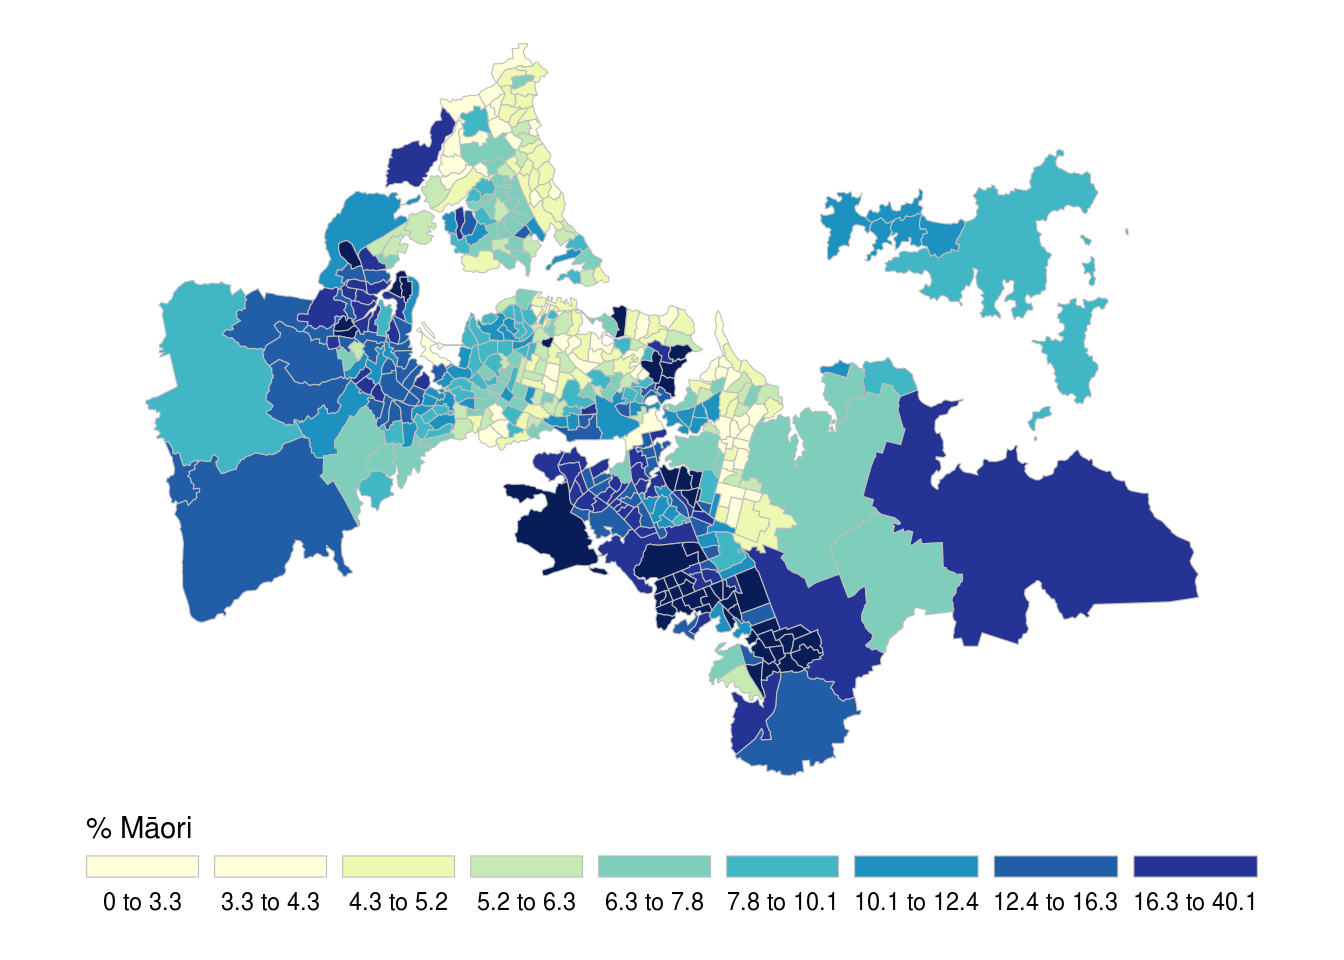
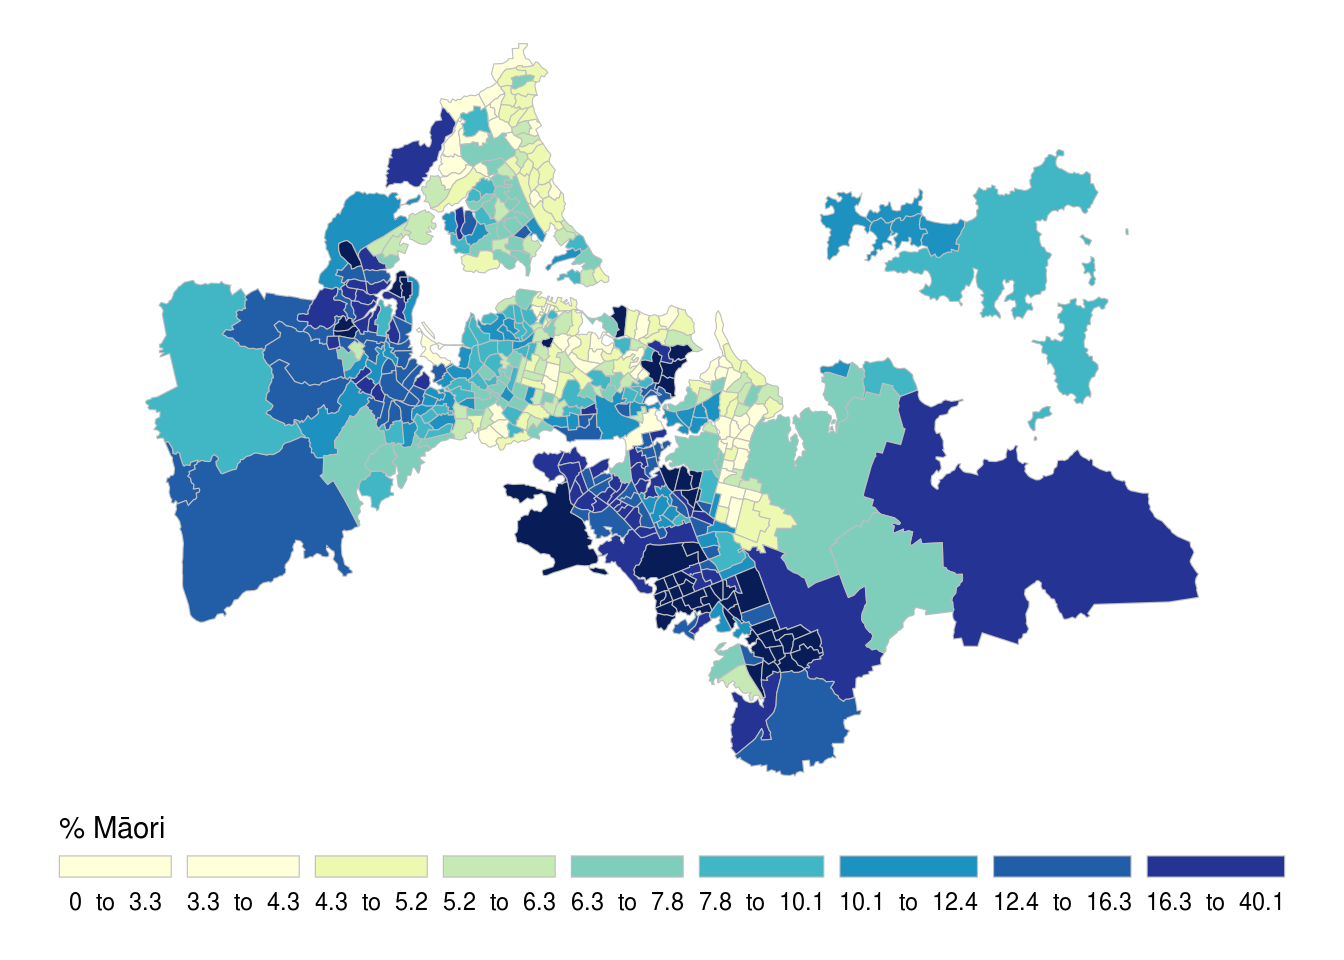
added some explanation to choropleth

Changed region(s): [[0.0312, 0.8438, 0.6875, 0.9688], [0.7812, 0.875, 0.9688, 0.9688]]

diff --git a/docs/maps/13-choropleth.html b/docs/maps/13-choropleth.html
@@ -191,60 +191,77 @@ pre > code.sourceCode > span > a:first-child::before { text-decoration: underlin
   tm_polygons(col = "maori", n = 9, palette = "YlGnBu", 
               style = "quantile", title = "% Māori")</code></pre>
 <p>It is nice to have the additional control that the separate specification of the <code>.scale</code> and <code>.legend</code> parameters provide, but the downside is a lot of additional typing. On the other, hand, if you like typing, take a look at what’s involved in making a similar map using <code>ggplot2</code>.</p>
-<div class="cell" data-hash="13-choropleth_cache/html/unnamed-chunk-3_e8011a88ff7a9c06566a1d439abf2720">
+<p>Some of the additional difficulty here is choosing to use a ‘non-standard’, legend, but this still seems like quite a lot of code.</p>
+<div class="cell" data-hash="13-choropleth_cache/html/unnamed-chunk-3_7825f15ddf103389c841ba577f03ff56">
 <div class="sourceCode cell-code" id="cb4"><pre class="sourceCode r code-with-copy"><code class="sourceCode r"><span id="cb4-1"><a href="#cb4-1" aria-hidden="true" tabindex="-1"></a><span class="fu">tm_shape</span>(ak) <span class="sc">+</span> </span>
 <span id="cb4-2"><a href="#cb4-2" aria-hidden="true" tabindex="-1"></a>  <span class="fu">tm_polygons</span>(</span>
 <span id="cb4-3"><a href="#cb4-3" aria-hidden="true" tabindex="-1"></a>    <span class="at">fill =</span> <span class="st">"maori"</span>,</span>
 <span id="cb4-4"><a href="#cb4-4" aria-hidden="true" tabindex="-1"></a>    <span class="at">fill.scale =</span> <span class="fu">tm_scale_intervals</span>(</span>
-<span id="cb4-5"><a href="#cb4-5" aria-hidden="true" tabindex="-1"></a>      <span class="at">n =</span> <span class="dv">9</span>, <span class="at">values =</span> <span class="st">"YlGnBu"</span>, </span>
-<span id="cb4-6"><a href="#cb4-6" aria-hidden="true" tabindex="-1"></a>      <span class="at">style =</span> <span class="st">"quantile"</span>),</span>
-<span id="cb4-7"><a href="#cb4-7" aria-hidden="true" tabindex="-1"></a>    <span class="at">fill.legend =</span> <span class="fu">tm_legend</span>(</span>
-<span id="cb4-8"><a href="#cb4-8" aria-hidden="true" tabindex="-1"></a>      <span class="at">orientation =</span> <span class="st">"landscape"</span>,</span>
-<span id="cb4-9"><a href="#cb4-9" aria-hidden="true" tabindex="-1"></a>      <span class="at">title =</span> <span class="st">"% Māori"</span>),</span>
-<span id="cb4-10"><a href="#cb4-10" aria-hidden="true" tabindex="-1"></a>    <span class="at">col =</span> <span class="st">"grey"</span>,</span>
-<span id="cb4-11"><a href="#cb4-11" aria-hidden="true" tabindex="-1"></a>    <span class="at">lwd =</span> <span class="fl">0.35</span></span>
-<span id="cb4-12"><a href="#cb4-12" aria-hidden="true" tabindex="-1"></a>  ) <span class="sc">+</span></span>
-<span id="cb4-13"><a href="#cb4-13" aria-hidden="true" tabindex="-1"></a>  <span class="fu">tm_layout</span>(</span>
-<span id="cb4-14"><a href="#cb4-14" aria-hidden="true" tabindex="-1"></a>    <span class="at">frame =</span> <span class="cn">FALSE</span>, <span class="at">legend.outside =</span> <span class="cn">TRUE</span>,</span>
-<span id="cb4-15"><a href="#cb4-15" aria-hidden="true" tabindex="-1"></a>    <span class="at">legend.outside.position =</span> <span class="st">"bottom"</span>,</span>
-<span id="cb4-16"><a href="#cb4-16" aria-hidden="true" tabindex="-1"></a>    <span class="at">legend.frame =</span> <span class="cn">FALSE</span>)</span></code><button title="Copy to Clipboard" class="code-copy-button"><i class="bi"></i></button></pre></div>
+<span id="cb4-5"><a href="#cb4-5" aria-hidden="true" tabindex="-1"></a>      <span class="at">n =</span> <span class="dv">9</span>, <span class="at">values =</span> <span class="st">"YlGnBu"</span>, <span class="at">style =</span> <span class="st">"quantile"</span>),</span>
+<span id="cb4-6"><a href="#cb4-6" aria-hidden="true" tabindex="-1"></a>    <span class="at">fill.legend =</span> <span class="fu">tm_legend</span>(</span>
+<span id="cb4-7"><a href="#cb4-7" aria-hidden="true" tabindex="-1"></a>      <span class="at">orientation =</span> <span class="st">"landscape"</span>, <span class="at">title =</span> <span class="st">"% Māori"</span>),</span>
+<span id="cb4-8"><a href="#cb4-8" aria-hidden="true" tabindex="-1"></a>    <span class="at">col =</span> <span class="st">"grey"</span>,</span>
+<span id="cb4-9"><a href="#cb4-9" aria-hidden="true" tabindex="-1"></a>    <span class="at">lwd =</span> <span class="fl">0.35</span></span>
+<span id="cb4-10"><a href="#cb4-10" aria-hidden="true" tabindex="-1"></a>  ) <span class="sc">+</span></span>
+<span id="cb4-11"><a href="#cb4-11" aria-hidden="true" tabindex="-1"></a>  <span class="fu">tm_layout</span>(</span>
+<span id="cb4-12"><a href="#cb4-12" aria-hidden="true" tabindex="-1"></a>    <span class="at">frame =</span> <span class="cn">FALSE</span>, <span class="at">legend.outside =</span> <span class="cn">TRUE</span>,</span>
+<span id="cb4-13"><a href="#cb4-13" aria-hidden="true" tabindex="-1"></a>    <span class="at">legend.outside.position =</span> <span class="st">"bottom"</span>,</span>
+<span id="cb4-14"><a href="#cb4-14" aria-hidden="true" tabindex="-1"></a>    <span class="at">legend.frame =</span> <span class="cn">FALSE</span>)</span></code><button title="Copy to Clipboard" class="code-copy-button"><i class="bi"></i></button></pre></div>
 <div class="cell-output-display">
 <p><img src="13-choropleth_files/figure-html/unnamed-chunk-3-1.png" class="img-fluid" width="672"></p>
 </div>
 </div>
+<p>Version 3.x <code>tmap</code> would accomplish the same map (setting to one side the custome legend) with</p>
+<pre><code>tm_shape(ak) +
+  tm_polygons(col = "maori", n = 9, palette = "YlGnBu", style = "quantile"
+              border.col = "grey", lwd = 0.35)</code></pre>
+<p>I should note that at least for now this v3 code will be internally transformed to v4 code, and hence still directly useable.</p>
+<p>The ‘embedded functions’ approach such as <code>tm_scale_intervals</code> seems like extra work. The change from <code>palette</code> to <code>values</code> is consistent with the <em>visual variables</em> concept, but I think you have to admit that it is likely to be less obvious to a beginner.</p>
 </section>
 <section id="ggplot2" class="level2">
 <h2 class="anchored" data-anchor-id="ggplot2"><code>ggplot2</code></h2>
-<p>Here we have to do all the classification work and use the <code>scale_fill_fermenter()</code> function to get the same effect. We can use <code>classInt::classIntervals()</code> to do this. Even then we have to make up the legend labels manually. An added challenge caused by placing the legend below the map area is that we have to extend the plot area to accommodate it, using <code>coord_sf(...ylim=...)</code>.</p>
-<div class="cell" data-hash="13-choropleth_cache/html/unnamed-chunk-4_d152c2e3b38f111d79bca6b7c92f3b86">
-<div class="sourceCode cell-code" id="cb5"><pre class="sourceCode r code-with-copy"><code class="sourceCode r"><span id="cb5-1"><a href="#cb5-1" aria-hidden="true" tabindex="-1"></a><span class="fu">library</span>(classInt)</span>
-<span id="cb5-2"><a href="#cb5-2" aria-hidden="true" tabindex="-1"></a></span>
-<span id="cb5-3"><a href="#cb5-3" aria-hidden="true" tabindex="-1"></a>intervals <span class="ot">&lt;-</span> <span class="fu">classIntervals</span>(ak<span class="sc">$</span>maori, <span class="dv">9</span>, <span class="st">"quantile"</span>, <span class="at">digits =</span> <span class="dv">1</span>)</span>
-<span id="cb5-4"><a href="#cb5-4" aria-hidden="true" tabindex="-1"></a>brks <span class="ot">&lt;-</span> <span class="fu">round</span>(intervals<span class="sc">$</span>brks, <span class="dv">1</span>)</span>
-<span id="cb5-5"><a href="#cb5-5" aria-hidden="true" tabindex="-1"></a>lbls <span class="ot">=</span> <span class="fu">paste0</span>(brks[<span class="sc">-</span><span class="dv">10</span>], <span class="fu">rep</span>(<span class="st">" to "</span>, <span class="dv">9</span>), brks[<span class="sc">-</span><span class="dv">1</span>])</span>
-<span id="cb5-6"><a href="#cb5-6" aria-hidden="true" tabindex="-1"></a>bb <span class="ot">&lt;-</span> <span class="fu">st_bbox</span>(ak)</span>
-<span id="cb5-7"><a href="#cb5-7" aria-hidden="true" tabindex="-1"></a></span>
-<span id="cb5-8"><a href="#cb5-8" aria-hidden="true" tabindex="-1"></a><span class="fu">ggplot</span>(ak) <span class="sc">+</span> </span>
-<span id="cb5-9"><a href="#cb5-9" aria-hidden="true" tabindex="-1"></a>  <span class="fu">geom_sf</span>(<span class="fu">aes</span>(<span class="at">fill =</span> maori), <span class="at">colour =</span> <span class="st">"grey"</span>, <span class="at">linewidth =</span> <span class="fl">0.2</span>) <span class="sc">+</span></span>
-<span id="cb5-10"><a href="#cb5-10" aria-hidden="true" tabindex="-1"></a>  <span class="fu">scale_fill_fermenter</span>(</span>
-<span id="cb5-11"><a href="#cb5-11" aria-hidden="true" tabindex="-1"></a>    <span class="at">palette =</span> <span class="st">"YlGnBu"</span>,</span>
-<span id="cb5-12"><a href="#cb5-12" aria-hidden="true" tabindex="-1"></a>    <span class="at">direction =</span> <span class="dv">1</span>,</span>
-<span id="cb5-13"><a href="#cb5-13" aria-hidden="true" tabindex="-1"></a>    <span class="at">breaks =</span> brks[<span class="sc">-</span><span class="dv">10</span>],</span>
-<span id="cb5-14"><a href="#cb5-14" aria-hidden="true" tabindex="-1"></a>    <span class="at">labels =</span> lbls,</span>
-<span id="cb5-15"><a href="#cb5-15" aria-hidden="true" tabindex="-1"></a>    <span class="at">name =</span> <span class="st">"% Māori"</span>,</span>
-<span id="cb5-16"><a href="#cb5-16" aria-hidden="true" tabindex="-1"></a>    <span class="at">guide =</span> <span class="fu">guide_legend</span>(</span>
-<span id="cb5-17"><a href="#cb5-17" aria-hidden="true" tabindex="-1"></a>      <span class="at">keywidth =</span> <span class="fu">unit</span>(<span class="dv">15</span>, <span class="at">units =</span> <span class="st">"mm"</span>),</span>
-<span id="cb5-18"><a href="#cb5-18" aria-hidden="true" tabindex="-1"></a>      <span class="at">keyheight =</span> <span class="fu">unit</span>(<span class="dv">3</span>, <span class="at">units =</span> <span class="st">"mm"</span>),</span>
-<span id="cb5-19"><a href="#cb5-19" aria-hidden="true" tabindex="-1"></a>      <span class="at">label.position =</span> <span class="st">"bottom"</span>,</span>
-<span id="cb5-20"><a href="#cb5-20" aria-hidden="true" tabindex="-1"></a>      <span class="at">title.position =</span> <span class="st">"top"</span>,</span>
-<span id="cb5-21"><a href="#cb5-21" aria-hidden="true" tabindex="-1"></a>      <span class="at">nrow =</span> <span class="dv">1</span>)) <span class="sc">+</span></span>
-<span id="cb5-22"><a href="#cb5-22" aria-hidden="true" tabindex="-1"></a>  <span class="fu">coord_sf</span>(<span class="at">ylim =</span> <span class="fu">c</span>(bb[<span class="dv">2</span>] <span class="sc">-</span> <span class="dv">10000</span>, bb[<span class="dv">4</span>]), <span class="at">clip =</span> <span class="st">"off"</span>) <span class="sc">+</span></span>
-<span id="cb5-23"><a href="#cb5-23" aria-hidden="true" tabindex="-1"></a>  <span class="fu">theme_void</span>() <span class="sc">+</span></span>
-<span id="cb5-24"><a href="#cb5-24" aria-hidden="true" tabindex="-1"></a>  <span class="fu">theme</span>(<span class="at">legend.position =</span> <span class="fu">c</span>(<span class="fl">0.5</span>, <span class="fl">0.1</span>))</span></code><button title="Copy to Clipboard" class="code-copy-button"><i class="bi"></i></button></pre></div>
+<p>Here, we have to do all the classification work and use the <code>scale_fill_fermenter()</code> and function to get the same effect. We use <code>classInt::classIntervals()</code> to make breaks. Even then we have to make up the legend labels manually if we want to show ranges, not just the break values. Much as I uh… appreciate the quirkiness of <em>R</em>’s <code>paste()</code> function, I don’t relish explaining this to an introductory class!</p>
+<p>An additional challenge caused by placing the legend below the map area is that we have to extend the plot area to accommodate it, using <code>coord_sf(...ylim=...)</code>, but that’s a distraction it is the generation of breaks, and legend labels that is the real annoyance (at least to me).</p>
+<div class="cell" data-hash="13-choropleth_cache/html/unnamed-chunk-4_91ddd3f91bd67161d317eb618834fc90">
+<div class="sourceCode cell-code" id="cb6"><pre class="sourceCode r code-with-copy"><code class="sourceCode r"><span id="cb6-1"><a href="#cb6-1" aria-hidden="true" tabindex="-1"></a><span class="fu">library</span>(classInt)</span>
+<span id="cb6-2"><a href="#cb6-2" aria-hidden="true" tabindex="-1"></a></span>
+<span id="cb6-3"><a href="#cb6-3" aria-hidden="true" tabindex="-1"></a>class_breaks <span class="ot">&lt;-</span> <span class="fu">classIntervals</span>(ak<span class="sc">$</span>maori, <span class="dv">9</span>, <span class="st">"quantile"</span>, <span class="at">digits =</span> <span class="dv">1</span>)</span>
+<span id="cb6-4"><a href="#cb6-4" aria-hidden="true" tabindex="-1"></a>brks <span class="ot">&lt;-</span> <span class="fu">round</span>(class_breaks<span class="sc">$</span>brks, <span class="dv">1</span>)</span>
+<span id="cb6-5"><a href="#cb6-5" aria-hidden="true" tabindex="-1"></a>intervals <span class="ot">=</span> <span class="fu">paste</span>(brks[<span class="sc">-</span><span class="dv">10</span>], <span class="fu">rep</span>(<span class="st">" to "</span>, <span class="dv">9</span>), brks[<span class="sc">-</span><span class="dv">1</span>])</span>
+<span id="cb6-6"><a href="#cb6-6" aria-hidden="true" tabindex="-1"></a>bb <span class="ot">&lt;-</span> <span class="fu">st_bbox</span>(ak)</span>
+<span id="cb6-7"><a href="#cb6-7" aria-hidden="true" tabindex="-1"></a></span>
+<span id="cb6-8"><a href="#cb6-8" aria-hidden="true" tabindex="-1"></a><span class="fu">ggplot</span>(ak) <span class="sc">+</span> </span>
+<span id="cb6-9"><a href="#cb6-9" aria-hidden="true" tabindex="-1"></a>  <span class="fu">geom_sf</span>(<span class="fu">aes</span>(<span class="at">fill =</span> maori), <span class="at">colour =</span> <span class="st">"grey"</span>, <span class="at">linewidth =</span> <span class="fl">0.2</span>) <span class="sc">+</span></span>
+<span id="cb6-10"><a href="#cb6-10" aria-hidden="true" tabindex="-1"></a>  <span class="fu">scale_fill_fermenter</span>(</span>
+<span id="cb6-11"><a href="#cb6-11" aria-hidden="true" tabindex="-1"></a>    <span class="at">palette =</span> <span class="st">"YlGnBu"</span>,</span>
+<span id="cb6-12"><a href="#cb6-12" aria-hidden="true" tabindex="-1"></a>    <span class="at">direction =</span> <span class="dv">1</span>,</span>
+<span id="cb6-13"><a href="#cb6-13" aria-hidden="true" tabindex="-1"></a>    <span class="at">breaks =</span> brks[<span class="sc">-</span><span class="dv">10</span>],</span>
+<span id="cb6-14"><a href="#cb6-14" aria-hidden="true" tabindex="-1"></a>    <span class="at">labels =</span> intervals,</span>
+<span id="cb6-15"><a href="#cb6-15" aria-hidden="true" tabindex="-1"></a>    <span class="at">name =</span> <span class="st">"% Māori"</span>,</span>
+<span id="cb6-16"><a href="#cb6-16" aria-hidden="true" tabindex="-1"></a>    <span class="at">guide =</span> <span class="fu">guide_legend</span>(</span>
+<span id="cb6-17"><a href="#cb6-17" aria-hidden="true" tabindex="-1"></a>      <span class="at">keywidth =</span> <span class="fu">unit</span>(<span class="dv">15</span>, <span class="at">units =</span> <span class="st">"mm"</span>),</span>
+<span id="cb6-18"><a href="#cb6-18" aria-hidden="true" tabindex="-1"></a>      <span class="at">keyheight =</span> <span class="fu">unit</span>(<span class="dv">3</span>, <span class="at">units =</span> <span class="st">"mm"</span>),</span>
+<span id="cb6-19"><a href="#cb6-19" aria-hidden="true" tabindex="-1"></a>      <span class="at">label.position =</span> <span class="st">"bottom"</span>,</span>
+<span id="cb6-20"><a href="#cb6-20" aria-hidden="true" tabindex="-1"></a>      <span class="at">title.position =</span> <span class="st">"top"</span>,</span>
+<span id="cb6-21"><a href="#cb6-21" aria-hidden="true" tabindex="-1"></a>      <span class="at">nrow =</span> <span class="dv">1</span>)) <span class="sc">+</span></span>
+<span id="cb6-22"><a href="#cb6-22" aria-hidden="true" tabindex="-1"></a>  <span class="fu">coord_sf</span>(<span class="at">ylim =</span> <span class="fu">c</span>(bb[<span class="dv">2</span>] <span class="sc">-</span> <span class="dv">10000</span>, bb[<span class="dv">4</span>]), <span class="at">clip =</span> <span class="st">"off"</span>) <span class="sc">+</span></span>
+<span id="cb6-23"><a href="#cb6-23" aria-hidden="true" tabindex="-1"></a>  <span class="fu">theme_void</span>() <span class="sc">+</span></span>
+<span id="cb6-24"><a href="#cb6-24" aria-hidden="true" tabindex="-1"></a>  <span class="fu">theme</span>(<span class="at">legend.position =</span> <span class="fu">c</span>(<span class="fl">0.5</span>, <span class="fl">0.1</span>))</span></code><button title="Copy to Clipboard" class="code-copy-button"><i class="bi"></i></button></pre></div>
 <div class="cell-output-display">
 <p><img src="13-choropleth_files/figure-html/unnamed-chunk-4-1.png" class="img-fluid" width="672"></p>
 </div>
 </div>
+<p>The underlying issue here is that <code>ggplot2</code> really doesn’t want to make classed choropleths. The data are ‘continuous’ valued and <code>ggplot2</code>’s strong preference is to associate a continuous variable with a continuos visual variable. You can see this if you let it do its own thing:</p>
+<div class="cell" data-hash="13-choropleth_cache/html/unnamed-chunk-5_43cfad263fa8db32d0cdc817670b893a">
+<div class="sourceCode cell-code" id="cb7"><pre class="sourceCode r code-with-copy"><code class="sourceCode r"><span id="cb7-1"><a href="#cb7-1" aria-hidden="true" tabindex="-1"></a><span class="fu">ggplot</span>(ak) <span class="sc">+</span> </span>
+<span id="cb7-2"><a href="#cb7-2" aria-hidden="true" tabindex="-1"></a>  <span class="fu">geom_sf</span>(<span class="fu">aes</span>(<span class="at">fill =</span> maori), <span class="at">colour =</span> <span class="st">"grey"</span>, <span class="at">linewidth =</span> <span class="fl">0.2</span>) <span class="sc">+</span></span>
+<span id="cb7-3"><a href="#cb7-3" aria-hidden="true" tabindex="-1"></a>  <span class="fu">scale_fill_distiller</span>(<span class="at">palette =</span> <span class="st">"YlGnBu"</span>, <span class="at">direction =</span> <span class="dv">1</span>) <span class="sc">+</span></span>
+<span id="cb7-4"><a href="#cb7-4" aria-hidden="true" tabindex="-1"></a>  <span class="fu">theme_void</span>()</span></code><button title="Copy to Clipboard" class="code-copy-button"><i class="bi"></i></button></pre></div>
+<div class="cell-output-display">
+<p><img src="13-choropleth_files/figure-html/unnamed-chunk-5-1.png" class="img-fluid" width="672"></p>
+</div>
+</div>
+<p>Data values are mapped directly to positions on the colour ramp. Doing different things to this requires the kind of additional work we see above.</p>
 
 
 </section>

diff --git a/docs/index.html b/docs/index.html
@@ -359,7 +359,7 @@ Southern part of the American continent.
 </div>
 </a>
 </div>
-<div class="g-col-1" data-index="10" data-listing-file-modified-sort="1697655159429" data-listing-reading-time-sort="3">
+<div class="g-col-1" data-index="10" data-listing-file-modified-sort="1697703604621" data-listing-reading-time-sort="4">
 <a href="./maps/13-choropleth.html" class="quarto-grid-link">
 <div class="quarto-grid-item card h-100 card-left">
 <p class="card-img-top"><img src="maps/13-choropleth_files/figure-html/unnamed-chunk-3-1.png" style="height: 150px;"  class="thumbnail-image card-img"/></p>
